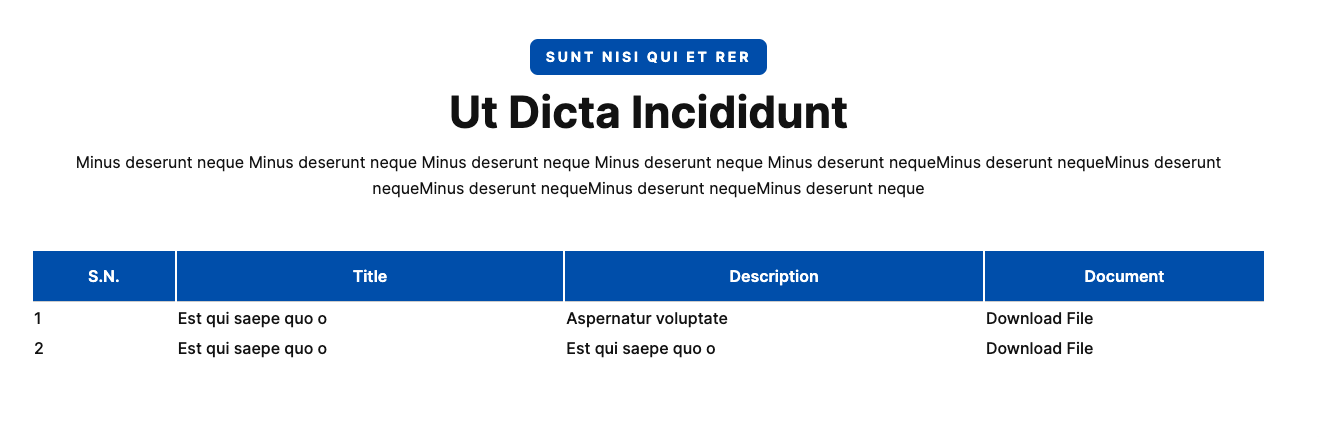
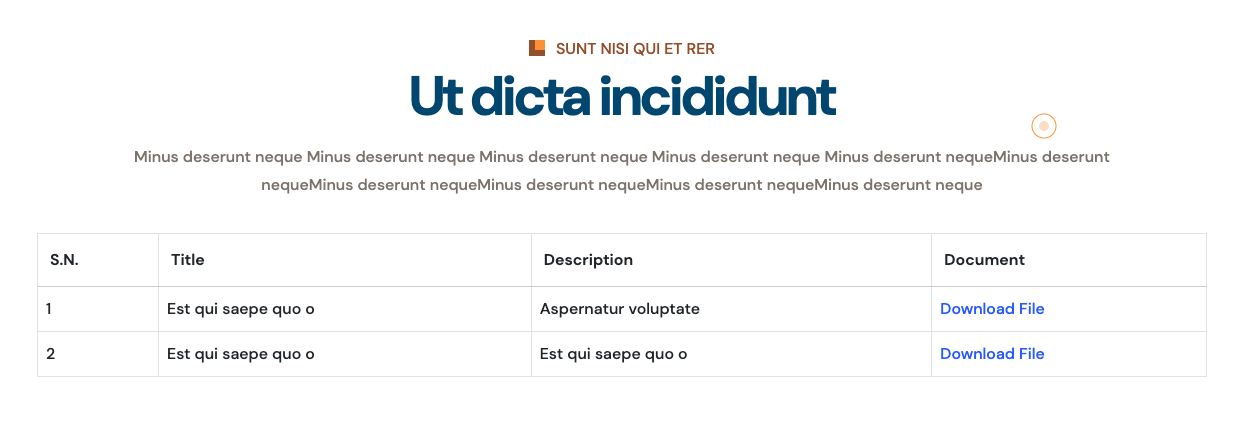
dynamic page update

diff --git a/public/assets/frontend/css/floens.css b/public/assets/frontend/css/floens.css
@@ -16066,4 +16066,14 @@ body.boxed-wrapper .projects-one__shape {
     top: 30px;
 }
 
+.border-radius-left{
+    border-top-left-radius: 1%;
+    border-bottom-left-radius: 1%;
+}
+
+.border-radius-right{
+    border-top-right-radius: 1%;
+    border-bottom-right-radius: 1%;
+}
+sss
 /*# sourceMappingURL=floens.css.map */

diff --git a/public/assets/common/frontend_datatable.css b/public/assets/common/frontend_datatable.css
@@ -9,9 +9,9 @@
     color: white;
 }
 
-.table>:not(:first-child) {
-    border-top: 2px solid #59bdb2;
-}
+/*.table>:not(:first-child) {*/
+/*    border-top: 2px solid #59bdb2;*/
+/*}*/
 
 .table tbody, .table.dataTable > tbody{
     border-left: 1px solid #dfe2e7!important;

diff --git a/resources/views/frontend/page/includes/document.blade.php b/resources/views/frontend/page/includes/document.blade.php
@@ -1,51 +1,43 @@
-
-
-<div class="content-detail-block mt-100 pb-100">
+<section class="testimonials-two section-space-two" id="testimonials">
+    @php [$remaining, $last] = splitWordsFromEnd($element->first()->title, 4);
+    @endphp
     <div class="container">
-        <div class="row row-gap-32">
-            <div class="col-12 col-xl-12">
-                <div class="content-para pr-55">
-                    <div class="text text-center">
-                        @if ($element->first()->subtitle )
-                            <div class="text-sub-heading2 text-white pt-8 pb-8 pl-16 pr-16 bg-blue bora-8 display-inline-block">
-                                {{ $element->first()->subtitle ?? '' }}
-                            </div>
-                        @endif
-                        <div class="heading3 mt-12 ">{{ $element->first()->title ?? '' }}</div>
-                            <div class="right flex-columns-center gap-8 mt-12">
-                                <div class="body3">{{ $element->first()->description ?? '' }}</div>
-                            </div>
+        <div class="sec-title sec-title--center" style="max-width: 993px; margin: 0 auto 30px;">
+            @if ($element->first()->subtitle )
+                <h6 class="sec-title__tagline">{{ $element->first()->subtitle ?? '' }}</h6>
+            @endif
+            <h3 class="sec-title__title">{{ $remaining ?? '' }} <br/> {{ $last ?? '' }} </h3>
+            <div class="reliable-one__text mt-3">{{ $element->first()->description ?? '' }}</div>
+        </div>
+        <div class="row gutter-y-60">
+            <div class="col-lg-12">
+                @if(count($element))
+                    <div class="pb-5">
+                        <table class="table table-hover table-bordered" data-toggle="table">
+                            <thead>
+                            <tr>
+                                <th scope="col">S.N.</th>
+                                <th scope="col">Title</th>
+                                <th scope="col">Description</th>
+                                <th scope="col">Document</th>
+                            </tr>
+                            </thead>
+                            <tbody>
+                            @foreach($element as $index=>$row)
+                                <tr>
+                                    <th scope="row">{{ $loop->iteration }}</th>
+                                    <td>{{ $row->list_title ?? '' }}</td>
+                                    <td>{{ $row->list_description ?? '' }}</td>
+                                    <td>
+                                        <a href="{{ asset(filePath($row->image))}}" class="fw-medium link-primary" download>Download File</a>
+                                    </td>
+                                </tr>
+                            @endforeach
+                            </tbody>
+                        </table>
                     </div>
-
-                    @if(count($element))
-                            <div class=" py-5">
-                                <table class="table table-hover table-bordered" data-toggle="table">
-                                    <thead>
-                                    <tr>
-                                        <th scope="col">S.N.</th>
-                                        <th scope="col">Title</th>
-                                        <th scope="col">Description</th>
-                                        <th scope="col">Document</th>
-                                    </tr>
-                                    </thead>
-                                    <tbody>
-                                    @foreach($element as $index=>$row)
-                                        <tr>
-                                            <th scope="row">{{ $loop->iteration }}</th>
-                                            <td>{{ $row->list_title ?? '' }}</td>
-                                            <td>{{ $row->list_description ?? '' }}</td>
-                                            <td>
-                                                <a href="{{ asset(filePath($row->image))}}" class="fw-medium link-primary" download>Download File</a>
-                                            </td>
-                                        </tr>
-                                    @endforeach
-                                    </tbody>
-                                </table>
-                            </div>
-                    @endif
-                </div>
+                @endif
             </div>
-
         </div>
     </div>
-</div>
+</section>

diff --git a/resources/views/frontend/page/includes/map_and_description.blade.php b/resources/views/frontend/page/includes/map_and_description.blade.php
@@ -1,34 +1,34 @@
-<div class="form-cta-block benefit-three bg-surface">
+<section class="faq-one section-space" style="background-color: var(--floens-black2, #2B1E16);background-image: url({{ asset('assets/frontend/images/shapes/contact-info-bg.png') }});">
+    @php [$remaining, $last] = splitWordsFromEnd($element->first()->title, 2);
+    @endphp
     <div class="container">
-        <div class="row ">
-            <div class="col-12 col-lg-6">
-                <div class="form-block bora-16 bg-white p-28" style="width: 95%;">
-                    @if($setting_data && $setting_data->google_map)
-                        <iframe src="{{ $setting_data->google_map }}" style="border:0;width: 545px;height: 520px; border-radius: 8px" allowfullscreen="" loading="lazy"></iframe>
-                    @endif
-                </div>
-            </div>
-            <div class="col-12 col-lg-6">
-
-                <div class="body3 ">
-                    <div class="text">
-                        <div class="text-sub-heading2 text-white pt-8 pb-8 pl-16 pr-16 bg-blue bora-8 display-inline-block">
-                            {{ $element->first()->subtitle ?? '' }}
-                        </div>
-                        <div class="heading2 mt-16">{{ $element->first()->title ?? '' }}</div>
+        <div class="row gutter-y-60">
+            <div class="col-lg-6 wow fadeInLeft" data-wow-duration="1500ms">
+                <div class="faq-one__image">
+                    <div class="faq-one__image__inner">
+                        @if($setting_data && $setting_data->google_map)
+                            <iframe src="{{ $setting_data->google_map }}" style="border:0;width: 560px;height: 735px; border-radius: 8px" allowfullscreen="" loading="lazy"></iframe>
+                        @endif
                     </div>
-                    <p class="text-secondary text-align-justify">{{ $element->first()->description ?? '' }}</p>
+                </div>
+            </div>
+            <div class="col-lg-6 wow fadeInRight" data-wow-duration="1500ms" data-wow-delay="200ms">
+                <div class="faq-one__content">
+                    <div class="sec-title sec-title--border">
+                        <h6 class="sec-title__tagline">{{ $element->first()->subtitle ?? '' }}</h6>
+                        <h3 class="sec-title__title" style="color: #f1944b;">{{ $remaining ?? '' }} <br/> {{ $last ?? '' }}</h3>
+                    </div>
+                    <p class="faq-one__text text-align-justify" style="color:#cbc8c3">
+                        {{ $element->first()->description ?? '' }}
+                    </p>
                     @if($element->first()->button_link)
-                        <div class="button-block mt-24 animate__animated animate__fadeInUp animate__delay-0-8s">
-                            <a class="button-share display-inline-block hover-button-black border-none bg-blue text-white text-button pl-28 pr-28 pt-12 pb-12 bora-8" href="{{$element->first()->button_link}}" tabindex="0">
-                                {{ $element->first()->button ?? 'Explore more' }}
-                            </a>
-                        </div>
+                        <a href="{{$element->first()->button_link}}" class="projects-one__btn floens-btn floens-btn--border">
+                            <span>{{ $element->first()->button ?? 'Explore more' }}</span>
+                            <i class="icon-right-arrow"></i>
+                        </a>
                     @endif
                 </div>
-
             </div>
-
         </div>
     </div>
-</div>
+</section>

diff --git a/resources/views/frontend/page/includes/gallery.blade.php b/resources/views/frontend/page/includes/gallery.blade.php
@@ -1,27 +1,26 @@
-<div class="blog-list style-one mt-80 mb-80">
-    <div class="container">
-        <div class="text-center">
+<section class="gallery-one section-space">
+    <div class="container-fluid">
+        <div class="sec-title sec-title--center">
             @if ($element->list_number_1)
-                <div class="text-sub-heading2 text-white pt-8 pb-8 pl-16 pr-16 bg-blue bora-8 display-inline-block">
-                    {{ $element->list_number_1 ?? '' }}
-                </div>
+                <h6 class="sec-title__tagline"> {{ $element->list_number_1 ?? '' }}</h6>
             @endif
-
-            <div class="heading3 mt-16">{{ $element->list_number_2 ?? '' }}</div>
+            <h3 class="sec-title__title sec-title--border" style="padding-bottom: 18px;">{{ $element->list_number_2 ?? '' }}</h3>
         </div>
-        <div class="row mt-20">
+        <div class="row">
             @foreach($element->pageSectionGalleries as $index=>$gallery)
-                <div class="col-4">
-                    <div class="magnific-img mt-2">
-                        <a class="image-popup-vertical-fit"
-                           href="{{ asset(galleryImagePath('section_element').$gallery->resized_name) }}" title="">
-                            <img src="{{ asset(galleryImagePath('section_element').$gallery->resized_name) }}"
-                                 class="bora-16 {{ @$data['row']->slug=='legal-document' || @$data['row']->slug=='legal-documents' || @$data['row']->slug=='sample-documents' || @$data['row']->slug=='sample-document' ? 'w-100':'image-dimension' }}" alt="" />
-                        </a>
+                <div class="col-xl-4 col-lg-4 col-sm-6">
+                    <div class="gallery-one__card">
+                        <img src="{{ asset(galleryImagePath('section_element').$gallery->resized_name) }}" alt="" class="{{ @$data['row']->slug=='legal-document' || @$data['row']->slug=='legal-documents' || @$data['row']->slug=='sample-documents' || @$data['row']->slug=='sample-document' ? 'w-100':'image-dimension' }}">
+                        <div class="gallery-one__card__hover">
+                            <a href="{{ asset(galleryImagePath('section_element').$gallery->resized_name) }}" class="img-popup">
+                                <span class="gallery-one__card__icon"></span>
+                            </a>
+                        </div>
                     </div>
                 </div>
             @endforeach
         </div>
     </div>
-</div>
+</section>
+
 

diff --git a/resources/views/frontend/page/includes/faq.blade.php b/resources/views/frontend/page/includes/faq.blade.php
@@ -1,17 +1,26 @@
-
-<div class="faq-block pb-80 pt-80 bg-surface">
+<section class="faq-page section-space">
     <div class="container">
-        <div class="row flex-center">
-            <div class="col-12 col-lg-8">
-                <div class="list-question">
-                    <div class="heading4">{{ $element->first()->title ?? '' }}</div>
+        <div class="sec-title sec-title--center">
+            <h3 class="sec-title__title" style="padding-bottom: 30px;">{{ $element->first()->title ?? '' }}</h3>
+        </div>
+        <div class="row gutter-y-60">
+            <div class="col-lg-12 wow fadeInRight" data-wow-duration="1500ms" data-wow-delay="200ms">
+                <div class="faq-accordion floens-accordion" data-grp-name="floens-accordion">
                     @foreach($element as $index=>$row)
-                        <div class=" question-item hover-box-shadow pointer mt-20 pl-28 pr-28 bora-8 border-line-1px">
-                            <div class="question-item-main flex-between pt-16 pb-16 heading7">{{ $row->list_title ?? '' }} {!! $row->list_description ? '<i class="ph-bold ph-plus fs-20 p-8"></i>':'' !!}</div>
+                        <div class="accordion">
+                            <div class="accordion-title">
+                                <h4>
+                                    {{ $row->list_title ?? '' }}
+                                    <span class="accordion-title__icon"></span>
+                                </h4>
+                            </div>
                             @if($row->list_description)
-                                <div class="content-question">
-                                    <div class="border-line"></div>
-                                    <div class="body3 text-secondary pt-16 pb-16"> {{ $row->list_description ?? '' }}</div>
+                                <div class="accordion-content text-align-justify">
+                                    <div class="inner">
+                                        <p>
+                                            {{ $row->list_description ?? '' }}
+                                        </p>
+                                    </div>
                                 </div>
                             @endif
                         </div>
@@ -20,4 +29,4 @@
             </div>
         </div>
     </div>
-</div>
+</section>

diff --git a/resources/views/frontend/page/includes/card_image.blade.php b/resources/views/frontend/page/includes/card_image.blade.php
@@ -1,28 +1,25 @@
 <div class="service-block style-about-two pt-60 pb-60 style-three">
     <div class="container">
-        <div class="text text-center">
+        <div class="sec-title sec-title--center">
             @if ($element->first()->subtitle )
-                <div class="text-sub-heading2 text-white pt-8 pb-8 pl-16 pr-16 bg-blue bora-8 display-inline-block">
-                    {{ $element->first()->subtitle ?? '' }}
-                </div>
+                <h6 class="sec-title__tagline">  {{ $element->first()->subtitle ?? '' }}</h6>
             @endif
-
-            <div class="heading3 mt-12 ">{{ $element->first()->title ?? '' }}</div>
+            <h3 class="sec-title__title sec-title--border" style="padding-bottom: 18px;">{{ $element->first()->title ?? '' }}</h3>
+            <div class="reliable-one__text mt-3">{!!  $element->first()->description ?? '' !!}</div>
         </div>
-
         <div class="list-service mt-40 pt-12">
             <div class="row">
                 @foreach($element as $index=>$row)
                     <div class="card custom-card mt-5">
                         <div class="row no-gutters">
-                            <div class="col-12 col-md-{{ $row->image == 'left' ? '5':'7' }}">
+                            <div class="col-12 col-md-{{ $row->image == 'left' ? '5':'7' }}" style="{{ $row->image == 'left' ? 'padding-left:0px':'' }}">
                                 @if($row->image == 'left')
                                     @include($view_path.'partials.card_image')
                                 @else
                                     @include($view_path.'partials.card_text')
                                 @endif
                             </div>
-                            <div class="col-12 col-md-{{ $row->image == 'left' ? '7':'5' }}">
+                            <div class="col-12 col-md-{{ $row->image == 'left' ? '7':'5' }}" style="{{ $row->image == 'left' ? '':'padding-right:0px' }}">
                                 @if($row->image == 'right')
                                     @include($view_path.'partials.card_image')
                                 @else

diff --git a/resources/views/frontend/homepage.blade.php b/resources/views/frontend/homepage.blade.php
@@ -957,9 +957,9 @@
                         <div class="faq-one__image">
                             <div class="faq-one__image__inner">
                                 <iframe src="{{$data['setting']->google_map}}" style="border:0;width: 545px;height: 745px; border-radius: 8px" allowfullscreen="" loading="lazy"></iframe>
-                            </div><!-- /.faq-one__image__inner -->
-                        </div><!-- /.faq-one__image -->
-                    </div><!-- /.col-lg-6 -->
+                            </div>
+                        </div>
+                    </div>
                     <div class="col-lg-6 wow fadeInRight" data-wow-duration="1500ms" data-wow-delay="200ms">
                         <div class="faq-one__content">
                             <div class="sec-title sec-title--border">
@@ -969,10 +969,12 @@
                             <p class="faq-one__text text-align-justify">
                                 {{ $data['homepage']->grievance_description ?? '' }}
                             </p>
-                            <a href="#" class="projects-one__btn floens-btn floens-btn--border">
-                                <span>Reach Out</span>
-                                <i class="icon-right-arrow"></i>
-                            </a>
+                            @if($data['homepage']->grievance_link)
+                                <a href="{{ $data['homepage']->grievance_link }}" class="projects-one__btn floens-btn floens-btn--border">
+                                    <span>{{ $data['homepage']->grievance_button ?? 'Contact Us' }}</span>
+                                    <i class="icon-right-arrow"></i>
+                                </a>
+                            @endif
                         </div>
                     </div>
                 </div>

diff --git a/app/Services/PageSectionElementsService.php b/app/Services/PageSectionElementsService.php
@@ -307,10 +307,10 @@ class PageSectionElementsService {
     public function syncImageCard($request, $data ){
         $cards       = PageSection::find($data['section_id']);
         $cards_id    = $cards->pageSectionElements->pluck('id')->toArray();
-        foreach ($request['list_header'] as $index=>$title){
+        foreach ($request['list_title'] as $index=>$title){
             $section     = $this->model->find($request['list_id'][$index]);
-            $heading     =  array_key_exists($index, $request->input('heading')) ? $request->input('heading')[$index] : null;
-            $subheading  =  array_key_exists($index, $request->input('subheading')) ? $request->input('subheading')[$index] : null;
+            $heading     =  array_key_exists($index, $request->input('title')) ? $request->input('title')[$index] : null;
+            $subheading  =  array_key_exists($index, $request->input('subtitle')) ? $request->input('subtitle')[$index] : null;
             $description =  array_key_exists($index, $request->input('description')) ? $request->input('description')[$index] : null;
 
             if ($request->file('image_input') && array_key_exists($index,$request->file('image_input'))){
@@ -327,8 +327,8 @@ class PageSectionElementsService {
                     'page_section_id' => $data['section_id']
                 ],
                 [
-                    'heading'             => $heading,
-                    'subheading'          => $subheading,
+                    'title'               => $heading,
+                    'subtitle'            => $subheading,
                     'description'         => $description,
                     'list_title'          => $title,
                     'image'               => $request['image_position'][$index],

diff --git a/resources/views/backend/page/includes/card_image.blade.php b/resources/views/backend/page/includes/card_image.blade.php
@@ -19,7 +19,7 @@
                     <div class="col-lg-6 mt-3">
                         <div class="mb-1">
                             <label class="form-label required">Title </label>
-                            <input type="text" class="form-control" name="heading[]" value="{{ $card_image[0]->heading ?? null}}" maxlength="60">
+                            <input type="text" class="form-control" name="title[]" value="{{ $card_image[0]->title ?? null}}" maxlength="60">
                             <input type="hidden" class="form-control" value="{{$key}}" name="page_section_id" required>
                             <input type="hidden" class="form-control" value="{{$value}}" name="section_name" required>
                             <input type="hidden" class="form-control" value="{{ $data['row']->id }}" name="page_id" required>
@@ -31,7 +31,7 @@
                     <div class="col-lg-6 mt-3">
                         <div class="mb-1">
                             <label>Sub Title </label>
-                            <input type="text" class="form-control" maxlength="60" name="subheading[]" value="{{ $card_image[0]->subheading ?? null}}">
+                            <input type="text" class="form-control" maxlength="60" name="subtitle[]" value="{{ $card_image[0]->subtitle ?? null}}">
                             <div class="invalid-feedback">
                                 Please enter the basic section sub title.
                             </div>

diff --git a/resources/views/backend/page/partials/card_image_details.blade.php b/resources/views/backend/page/partials/card_image_details.blade.php
@@ -1,6 +1,6 @@
 <tr>
     <td>
-        {!! Form::text('list_header[]',  isset($detail) ? $detail->list_title:null, ['class'=>'form-control list_title','placeholder'=>'Enter title','required']) !!}
+        {!! Form::text('list_title[]',  isset($detail) ? $detail->list_title:null, ['class'=>'form-control list_title','placeholder'=>'Enter title','required']) !!}
         {!! Form::hidden('list_id[]',  isset($detail) ? $detail->id:null, ['class'=>'form-control list_id','readonly']) !!}
     </td>
     <td>

diff --git a/resources/views/frontend/page/partials/card_text.blade.php b/resources/views/frontend/page/partials/card_text.blade.php
@@ -1,6 +1,6 @@
     <div class="card-body p-24">
         <h4 class="heading6 hover-text-blue mb-2">{{ $row->list_title ?? '' }}</h4>
-        <h6 class="text-button text-secondary mb-2">{{ $row->button ?? '' }}</h6>
+        <h6 class="text-button text-secondary mb-2" style="color: var(--floens-base2, #8A5133)!important;">{{ $row->button ?? '' }}</h6>
         <p class="body3 text-secondary text-align-justify">{{ $row->list_description ?? '' }}</p>
     </div>
 
